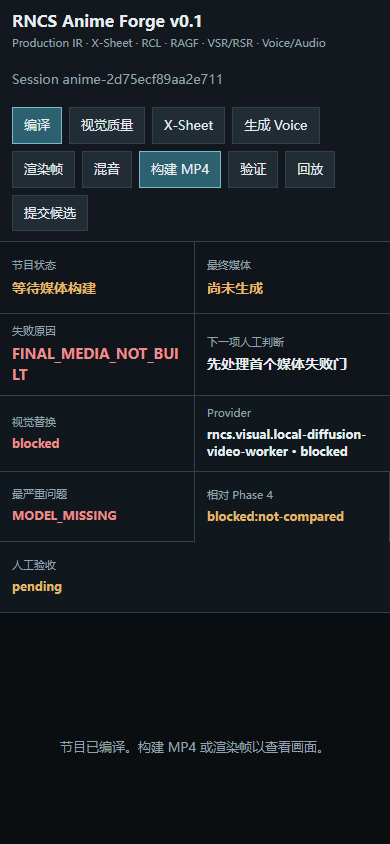
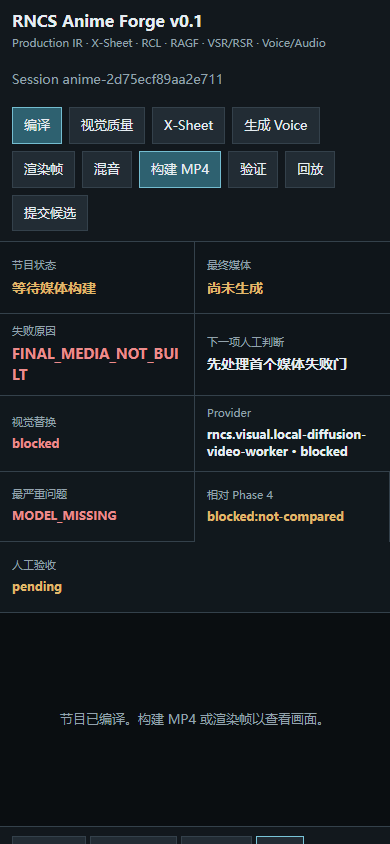
fix(anime-forge): keep mobile preview inside viewport

Changed region(s): [[0.1538, 0.8318, 0.8308, 0.8934], [0.0308, 0.9858, 0.8, 1.0]]

diff --git a/apps/reality-studio/web/anime-forge.html b/apps/reality-studio/web/anime-forge.html
@@ -11,7 +11,7 @@
     .quality-overview{height:88px;display:grid;grid-template-columns:1fr 1fr 1.35fr 1.65fr;border-bottom:1px solid var(--line);background:#0f151a}.quality-cell{min-width:0;padding:13px 16px;border-right:1px solid var(--line);display:flex;flex-direction:column;justify-content:center;gap:4px}.quality-cell:last-child{border-right:0}.quality-cell span{font-size:11px;color:var(--muted)}.quality-cell strong{font-size:14px;letter-spacing:0;overflow-wrap:anywhere}.quality-cell strong.good{color:var(--good)}.quality-cell strong.warn{color:var(--warn)}.quality-cell strong.bad{color:var(--bad)}.workspace{height:calc(100vh - 146px)}.preview img,.preview video{max-width:100%;max-height:100%;width:auto;height:auto;object-fit:contain;border:1px solid #3b4d58;background:#050708}.quality-list{display:grid;gap:1px;background:var(--line);border:1px solid var(--line)}.quality-row{display:grid;grid-template-columns:minmax(110px,.7fr) minmax(0,1.3fr);gap:10px;background:var(--panel);padding:8px 10px}.quality-row span{color:var(--muted)}.quality-row b{font-weight:600;overflow-wrap:anywhere}.evidence-link{display:inline-flex;margin-top:10px;color:var(--accent);text-decoration:none}.evidence-link:hover{text-decoration:underline}details.evidence-details{border-bottom:1px solid var(--line)}details.evidence-details>summary{padding:12px 16px;color:var(--muted);cursor:pointer;list-style-position:inside}details.evidence-details[open]>summary{border-bottom:1px solid var(--line)}
     @media(max-width:1100px){.quality-overview{grid-template-columns:1fr 1fr;height:auto}.quality-cell:nth-child(2){border-right:0}.quality-cell:nth-child(-n+2){border-bottom:1px solid var(--line)}.workspace{grid-template-columns:320px minmax(420px,1fr);grid-template-rows:auto auto;height:auto;min-height:calc(100vh - 194px);overflow:visible}.right{grid-column:1 / -1;border-top:1px solid var(--line);display:grid;grid-template-columns:1fr 1fr}.right .pane-head{grid-column:1/-1}.right .section,.right details{min-height:0}.right .footer-note{grid-column:1/-1}}@media(max-width:760px){.top{height:auto;min-height:58px;align-items:flex-start;flex-wrap:wrap;padding:10px 12px}.brand{min-width:0;width:100%}.toolbar{margin-left:0;width:100%;justify-content:flex-start}.quality-overview{grid-template-columns:1fr 1fr}.quality-cell{padding:10px 12px;min-height:72px}.workspace{display:flex;flex-direction:column;height:auto;min-height:0}.workspace>.center{order:1}.workspace>.pane:first-child{order:2}.workspace>.right{order:3}.pane,.right{min-height:520px;border-right:0;border-bottom:1px solid var(--line)}.center{min-height:620px}.preview{min-height:270px}.right{display:block}.quality-row{grid-template-columns:100px minmax(0,1fr)}}
     .visual-quality-strip{display:grid;grid-template-columns:1fr 1.15fr 1fr 1.2fr 1.45fr;border-bottom:1px solid var(--line);background:#11181d}.visual-quality-strip .quality-cell{min-width:0;padding:9px 14px;min-height:64px}.visual-quality-strip .quality-cell strong{font-size:12px}.visual-quality-strip code{overflow:hidden;text-overflow:ellipsis;white-space:nowrap;color:var(--accent);font-size:10px}.visual-quality-strip .quality-cell strong.bad{color:var(--bad)}
-    @media(max-width:1100px){.visual-quality-strip{grid-template-columns:repeat(3,1fr)}.visual-quality-strip .quality-cell:nth-child(-n+3){border-bottom:1px solid var(--line)}}@media(max-width:760px){.visual-quality-strip{grid-template-columns:1fr 1fr}.visual-quality-strip .quality-cell{padding:10px 12px;min-height:70px}}
+    @media(max-width:1100px){.visual-quality-strip{grid-template-columns:repeat(3,1fr)}.visual-quality-strip .quality-cell:nth-child(-n+3){border-bottom:1px solid var(--line)}}@media(max-width:760px){.visual-quality-strip{grid-template-columns:1fr 1fr}.visual-quality-strip .quality-cell{padding:10px 12px;min-height:70px}.preview{min-height:214px;padding:6px}}
   </style>
 </head>
 <body>
